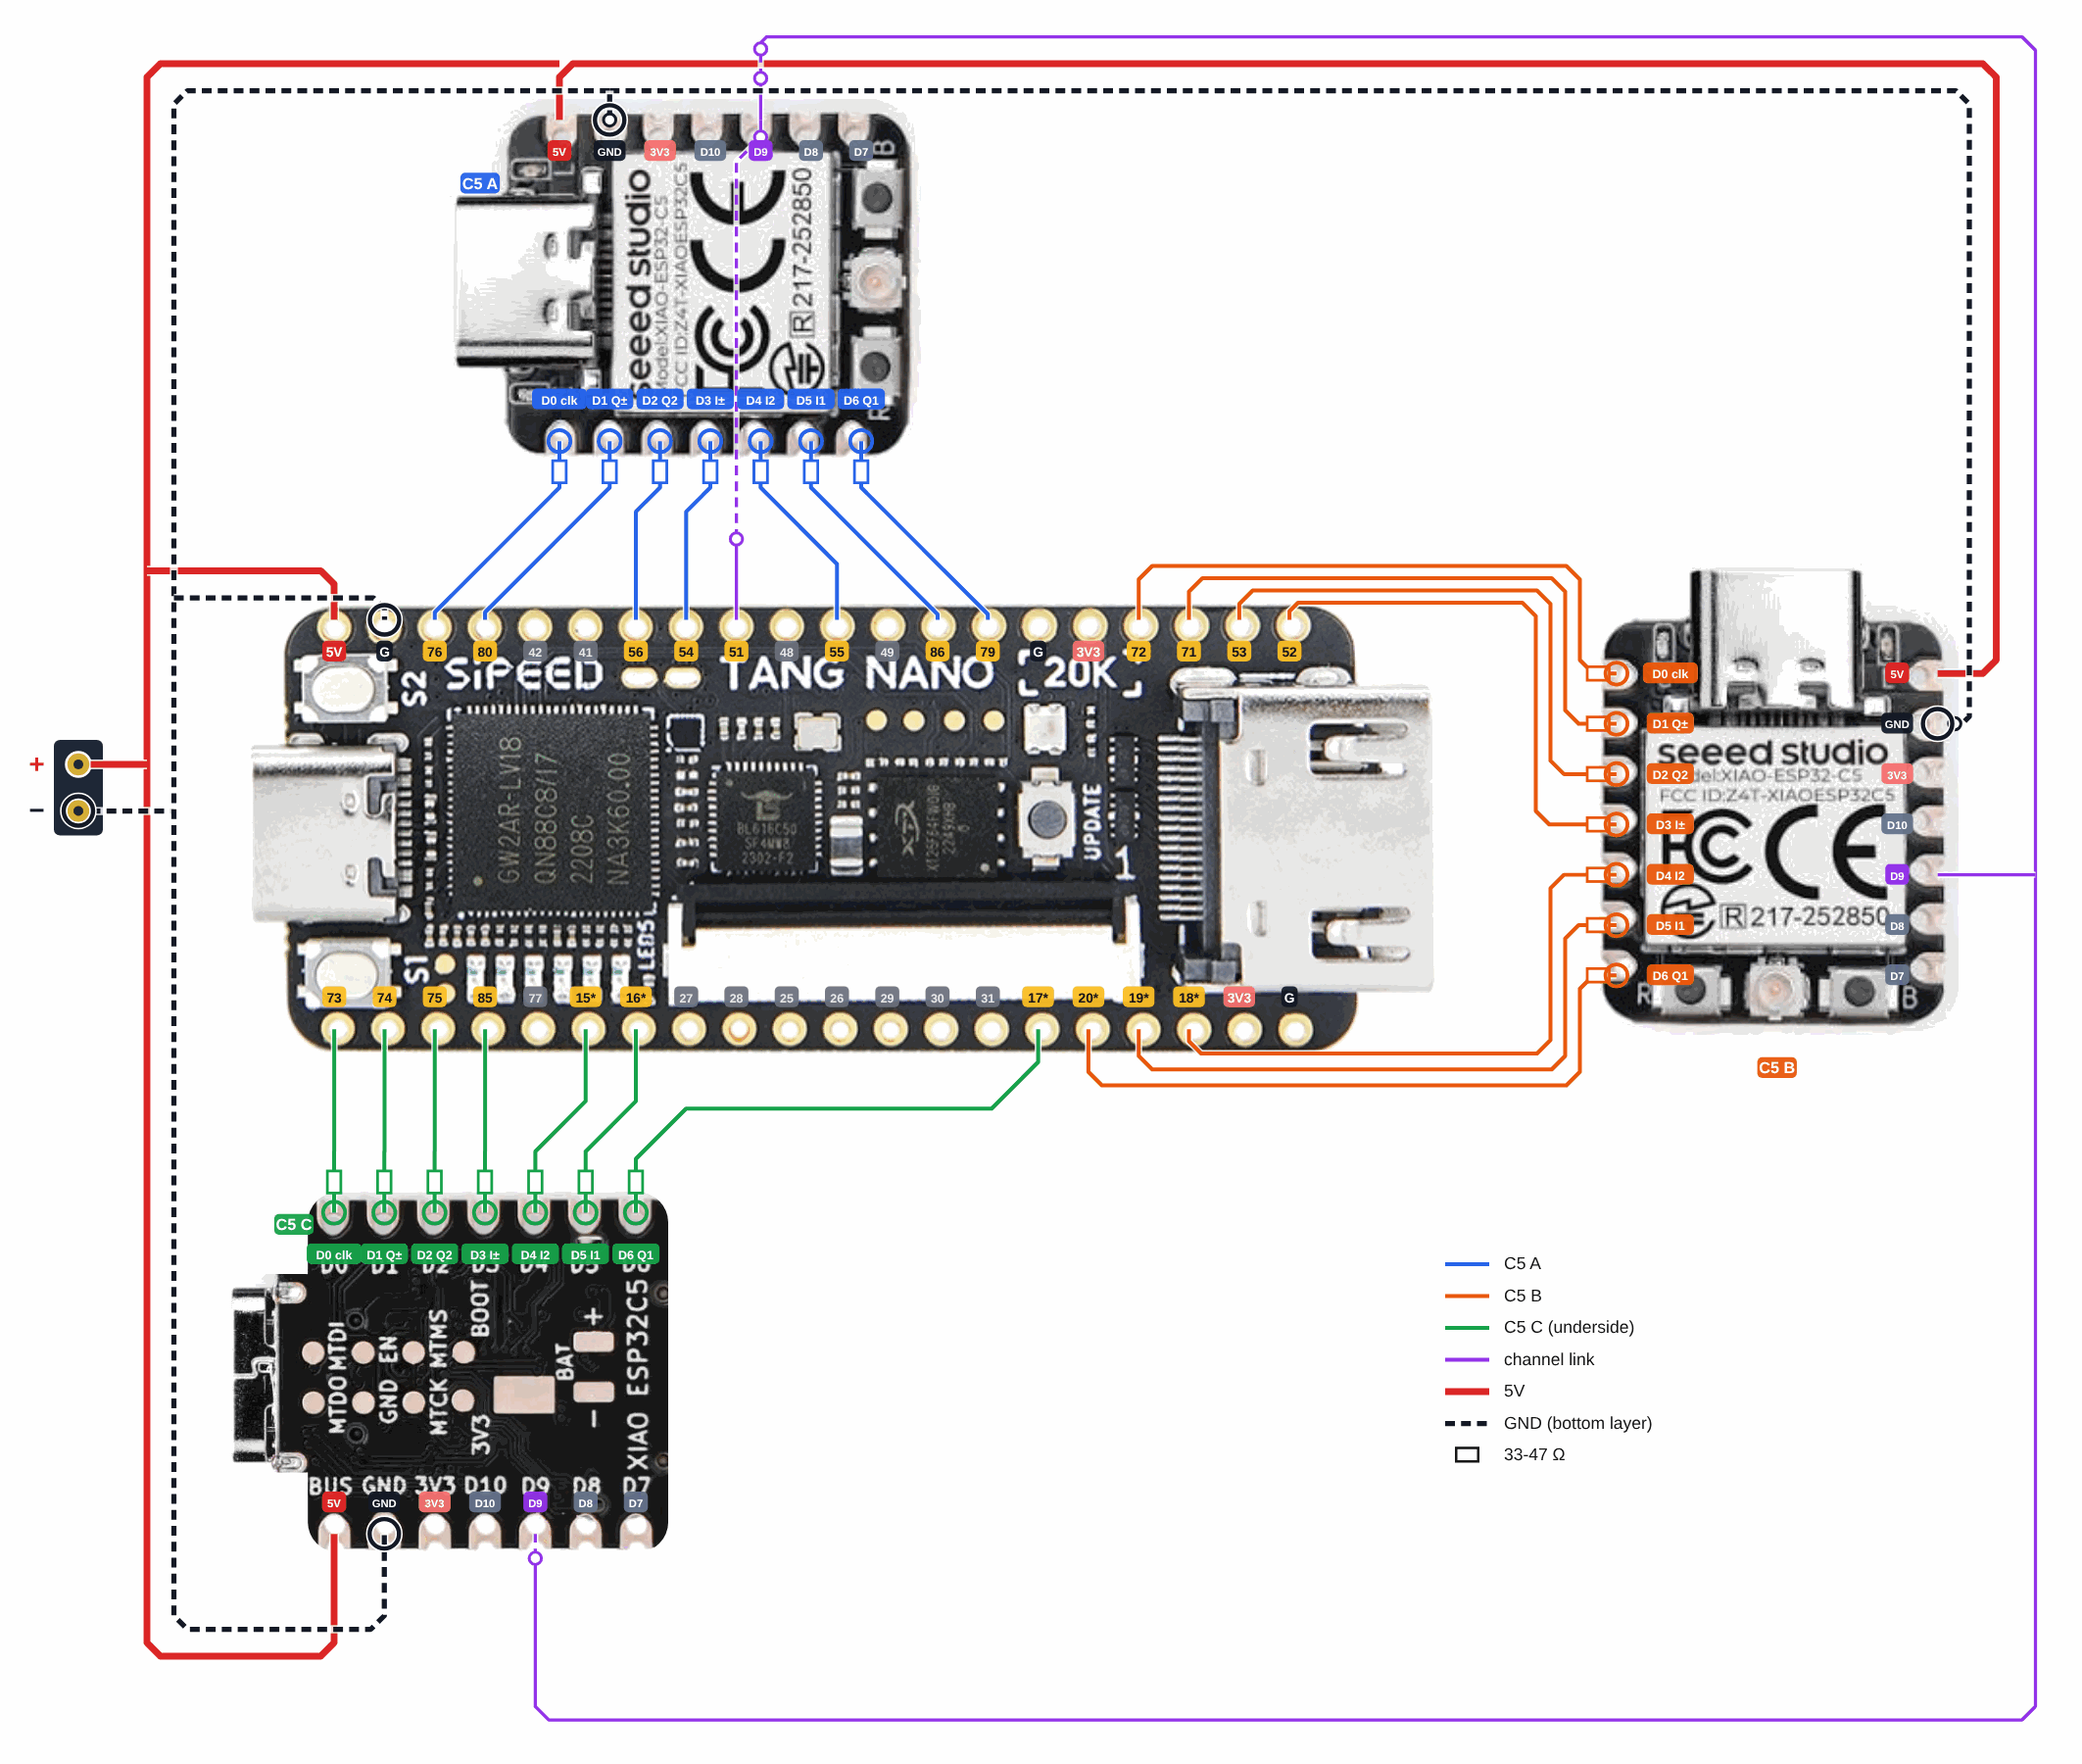
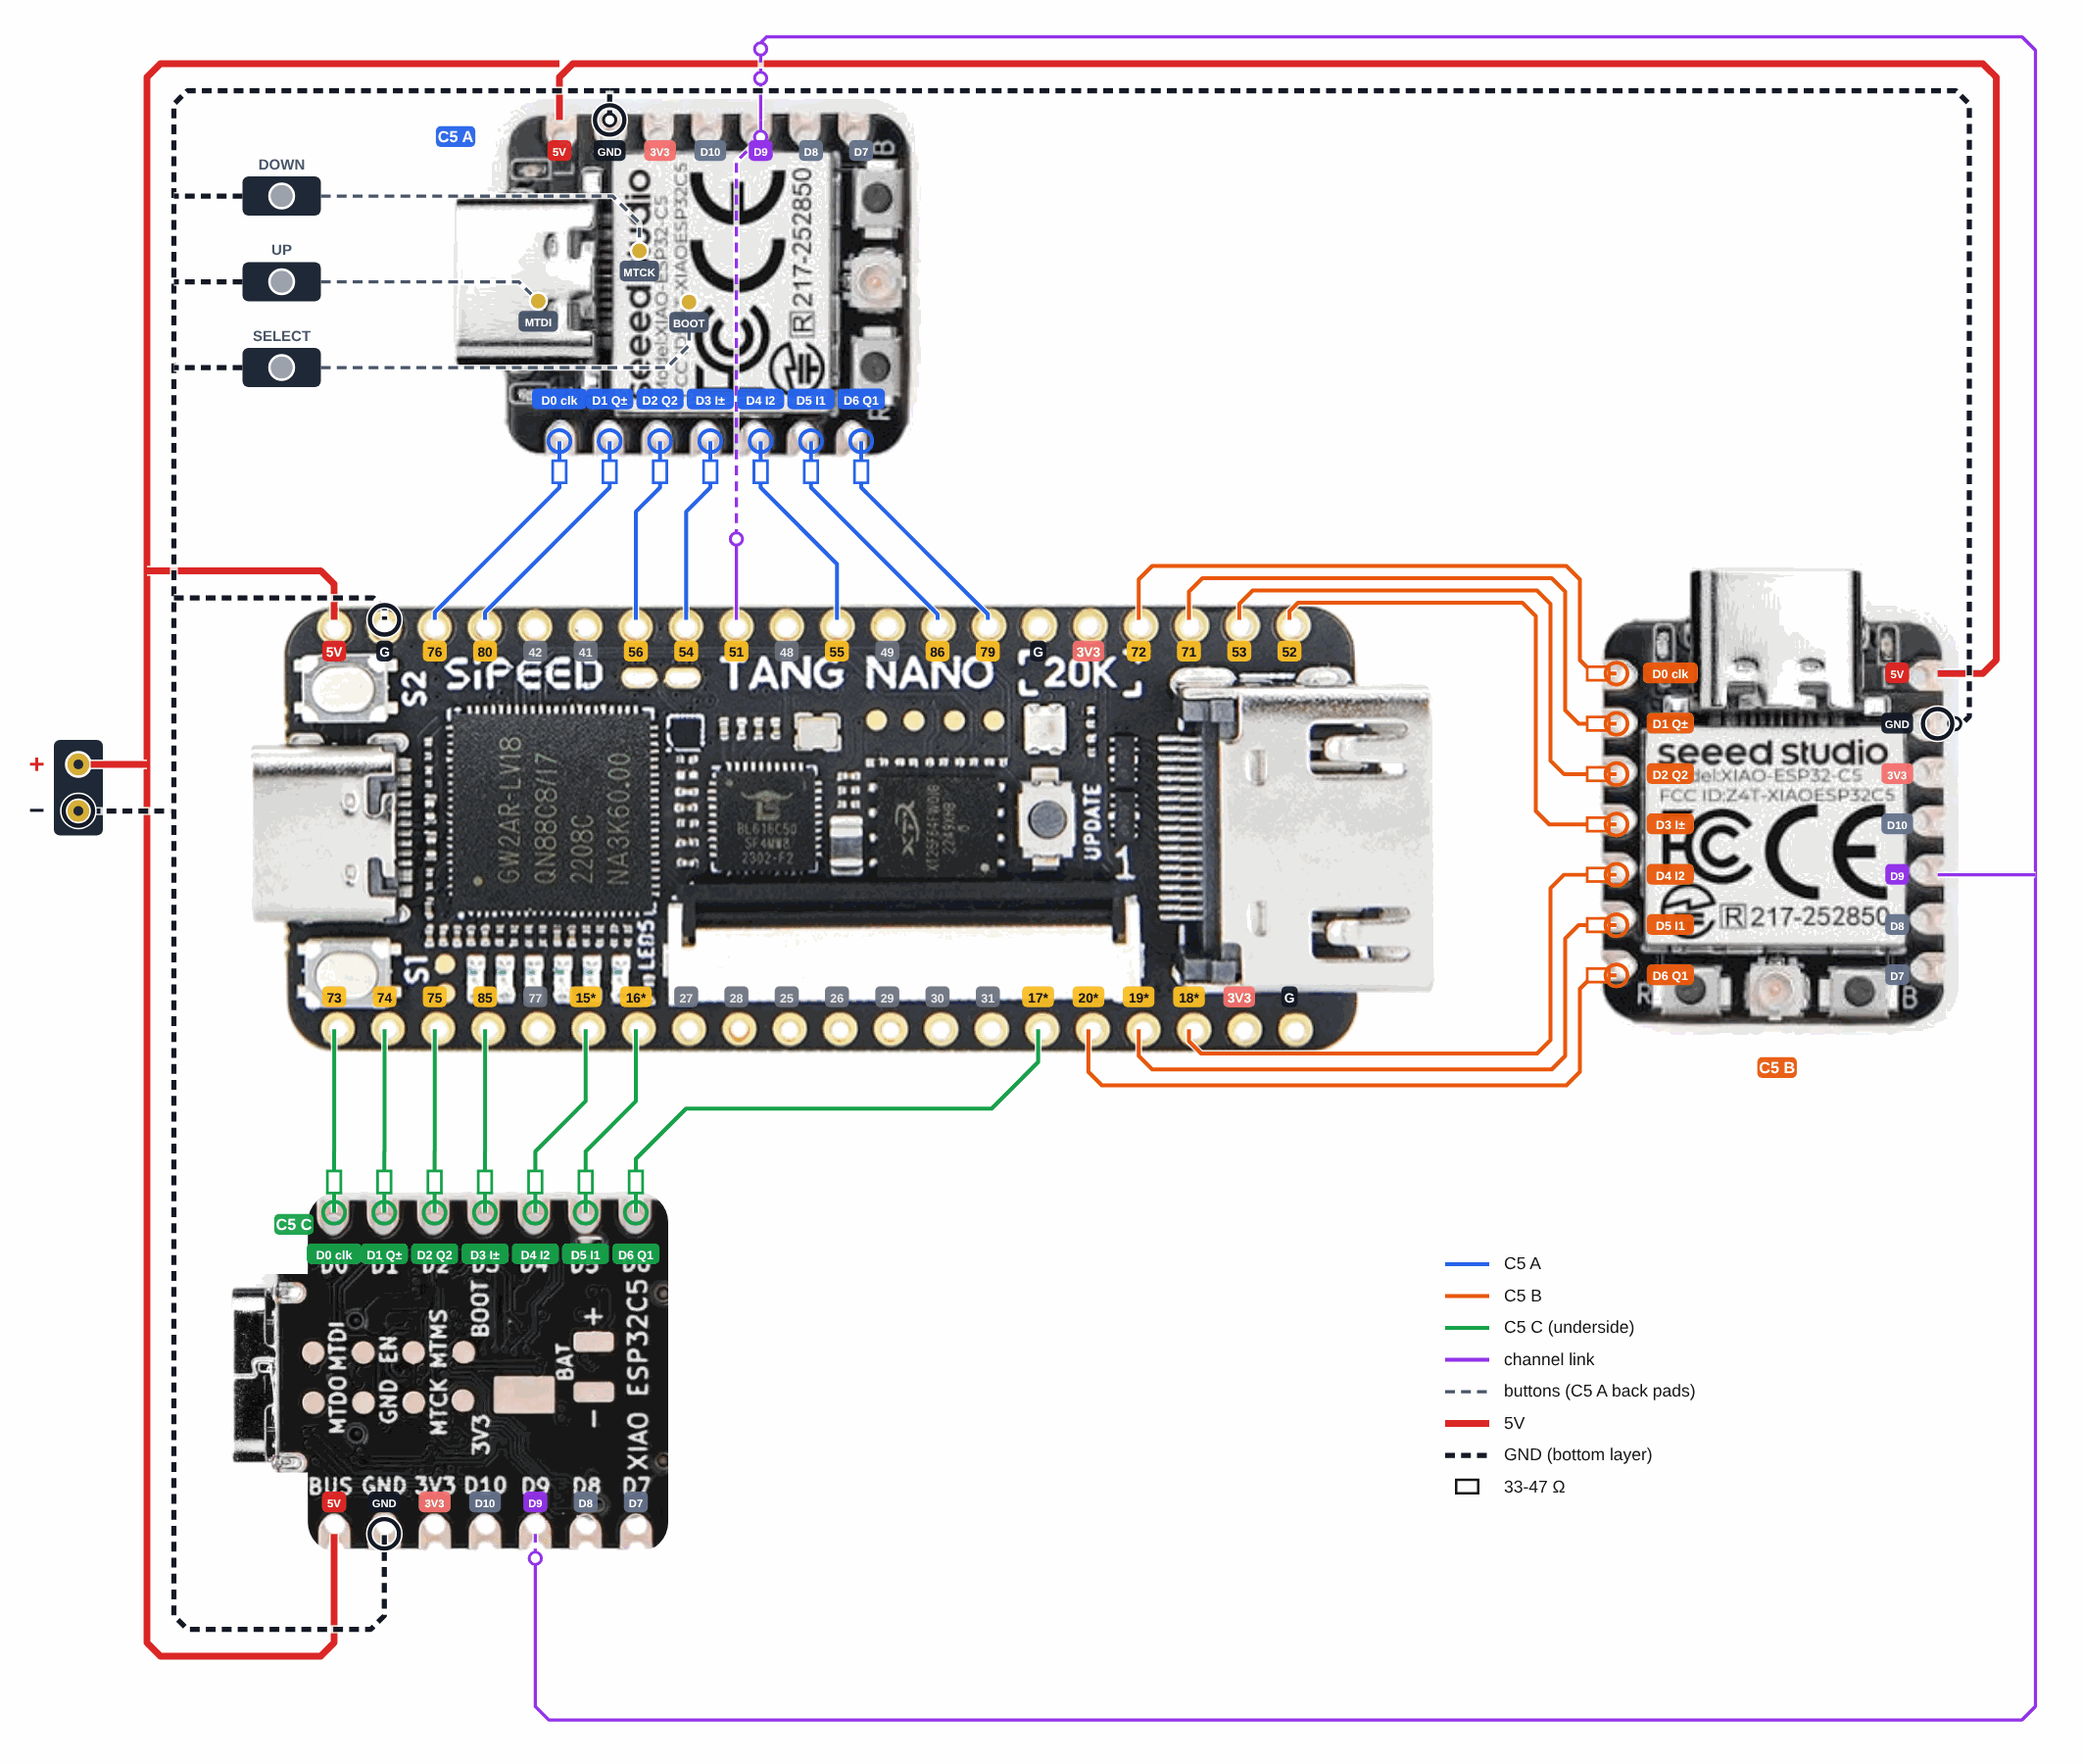
README: three menu buttons on C5 A
Claude-Session: https://claude.ai/code/session_01SbUcqf2coNPus5rYcABRPw

diff --git a/README.md b/README.md
@@ -12,6 +12,8 @@ and drives an 800x480 RGB LCD.
 - **DVR mode**: two C5s combined, the third branch is released for recording.
 - Gain, DC and AFC stay local on each C5; the FPGA only tells them which
   channel to use (one shared UART wire).
+- All three C5s run the same firmware; the wiring decides which is A, B or C.
+- Three buttons on C5 A (Select, Up, Down) open the FPGA's on-screen menu.
 
 > Status: design and host simulation. No firmware, no board yet.
 
@@ -51,6 +53,17 @@ goggle or range result.
 | D6 | Q bit 1 | 79 | 20 | 17 |
 | D9 | channel link (UART RX) | 51 | 51 | 51 |
 | D7, D8 | Q0, I0 (internal only) | - | - | - |
+
+Buttons, C5 A only (each to GND, internal pull-up; back pads, under the XIAO):
+
+| back pad | GPIO | button |
+|---|---|---|
+| BOOT | 28 | Select (same as the XIAO's own B button) |
+| MTDI | 3 | Up |
+| MTCK | 4 | Down |
+
+C5 A forwards a press in-band in its IQ stream; the FPGA drops C5 A from the
+combination for those few microseconds (B and C cover it) and handles the menu.
 
 Numbers are Tang Nano 20K pins; the 40-pin LCD keeps its own pins.
 
